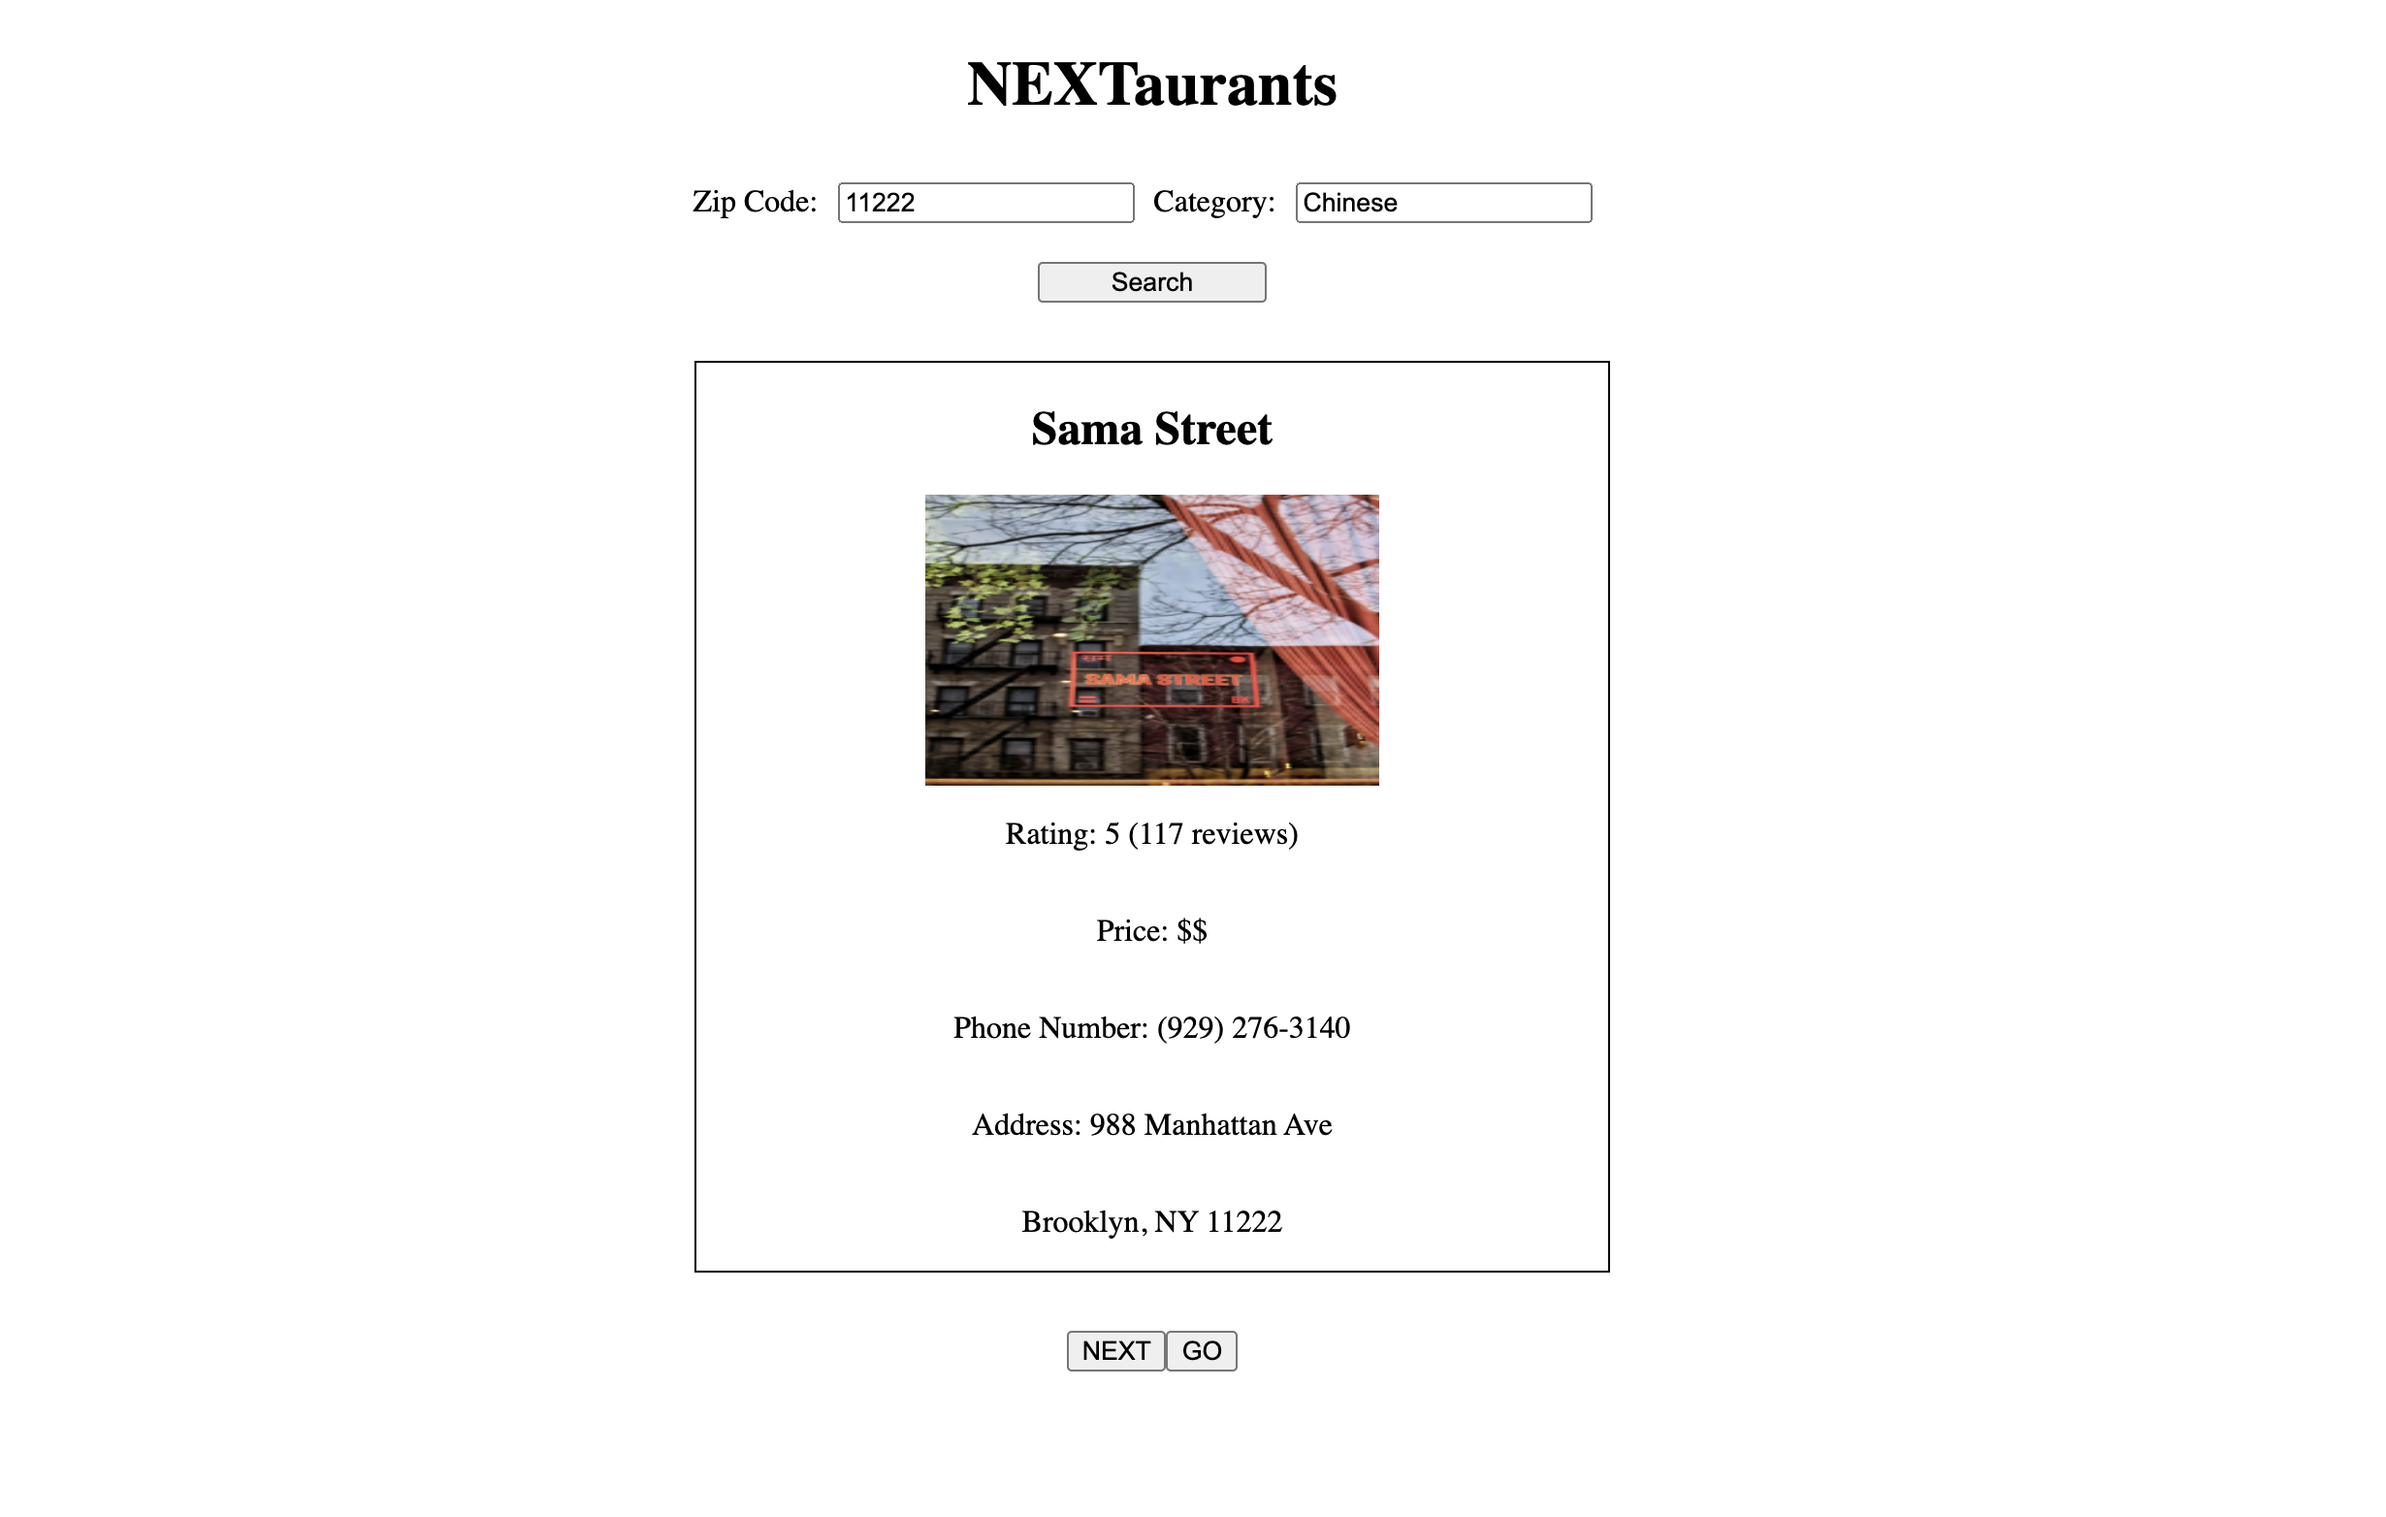
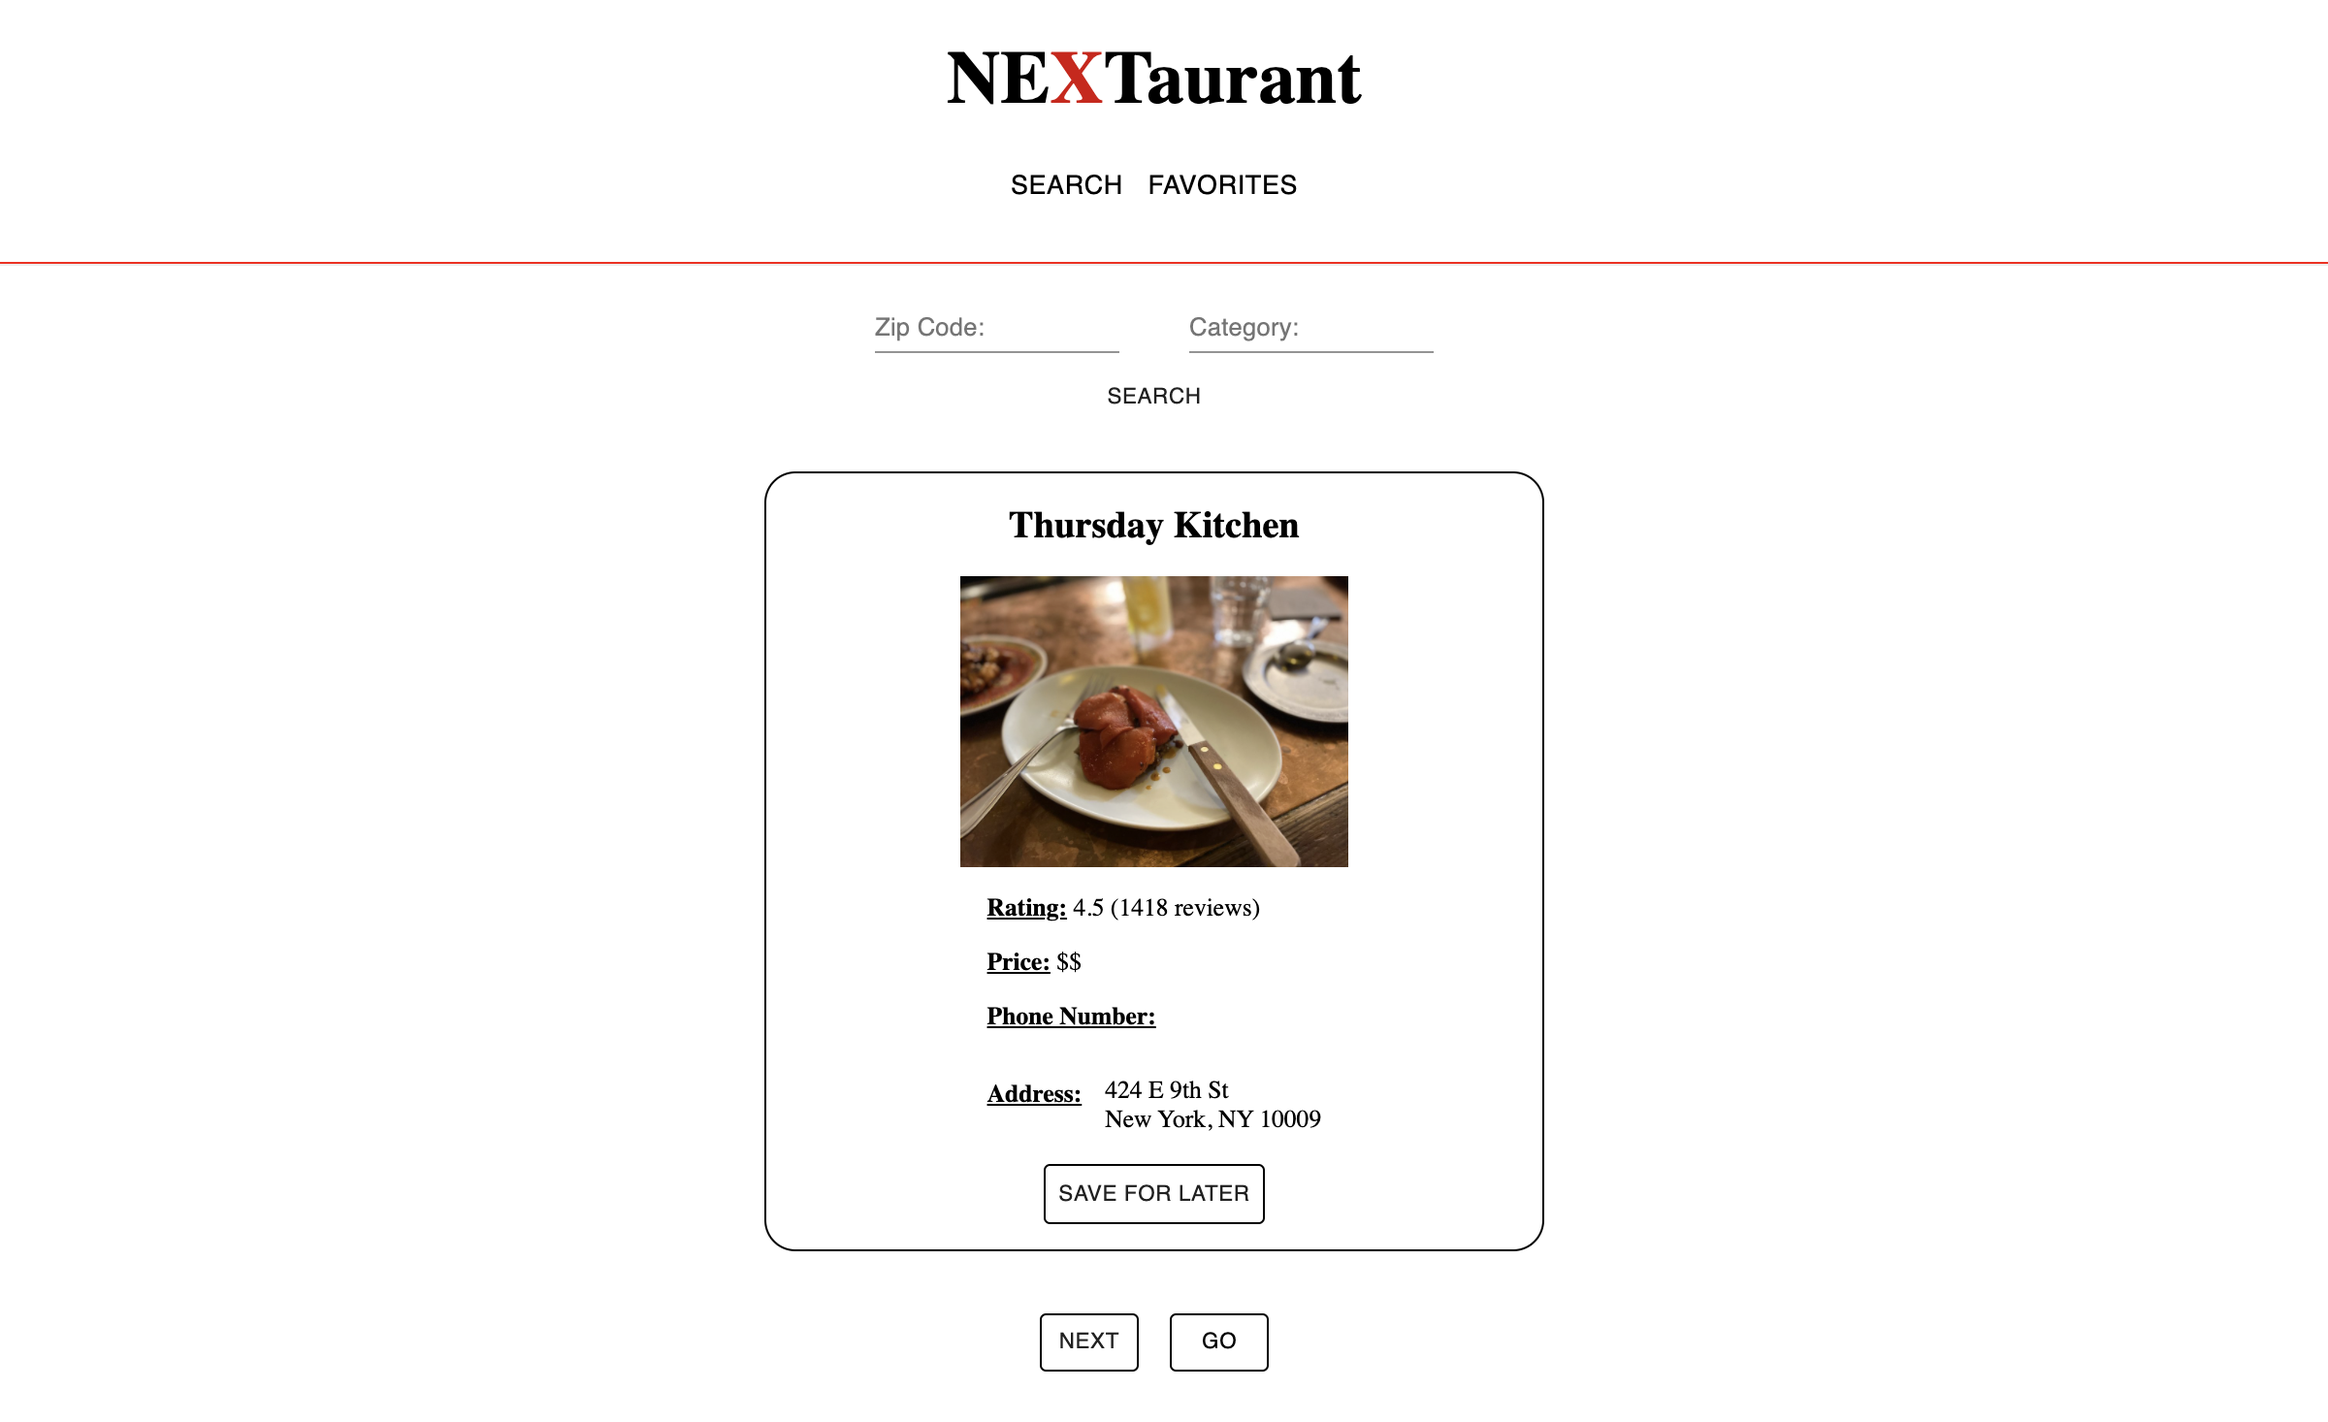
added youtube

diff --git a/index.html b/index.html
@@ -42,6 +42,7 @@
           <ul>
             <p><a href='https://pick-me-up-2.herokuapp.com/#/'>Heroku Link</a></p>
             <p><a href='https://github.com/Cat-Stone/pick-me-up'>Github Link</a></p>
+            <p><a href='https://youtu.be/aif63cEdlt8'>Youtube Link</a></p>
           </ul>
           <p>This was my capstone project. We built a web app that allows users to create, search for, and join other basketball players in their area and coordinate pick-up games. I was responsible for integrating Google Maps API and NYC parks API so that users had search-based map functionality to create and find games. Also created the form that allowed users to create and join games and stored the data in a Postgres database.</p>
           <p>Developed using JavaScript, Babel, Material-UI, Webpack, Bcrypt, Express, Node.js, React, Redux, Postgres, Websockets, and Sequelize among other libraries.</p>
@@ -60,10 +61,11 @@
           <h4><li>NEXTaurant</li></h4>
           <img class='projectpic' src="files/next.png" alt="">
           <ul>
-            <!-- <p><a>Heroku Link</a></p> -->
+            <p><a>Heroku Link: Under Construction</a></p>
             <p><a href='https://github.com/TaylorMcKeel/nextaurant'>Github Link</a></p>
+            <p><a href='https://youtu.be/TqJfannQNLU'>Youtube Link</a></p>
           </ul>
-          <p>This was my 5-day hackathon project. Building off of the concept of an old MTV show combined with modern swipe-based dating, this application allows users to find restaurants more easily by removing the endless list of options. Users add a zip code they wish to eat in along with an optional cusine type, and then are given one restaurant at a time. They can either swipe no to be given another restaurant, or swipe yes and be given directions to and reservation information from the restaurant.  </p>
+          <p>This was my 5-day hackathon project. Building off of the concept of an old MTV show combined with modern swipe-based dating, this application allows users to find restaurants more easily by removing the endless list of options. Users add a zip code they wish to eat in along with an optional cuisine type, and then are given one restaurant at a time. They can either NEXT the choice to be given another restaurant, or GO and be given location, reservation, and contact information from the restaurant.</p>
           <p>Developed using JavaScript, Babel, Webpack, Express, Node.js, React, Postgres, and Redux among other libraries.</p>
         </div>
       </div>
